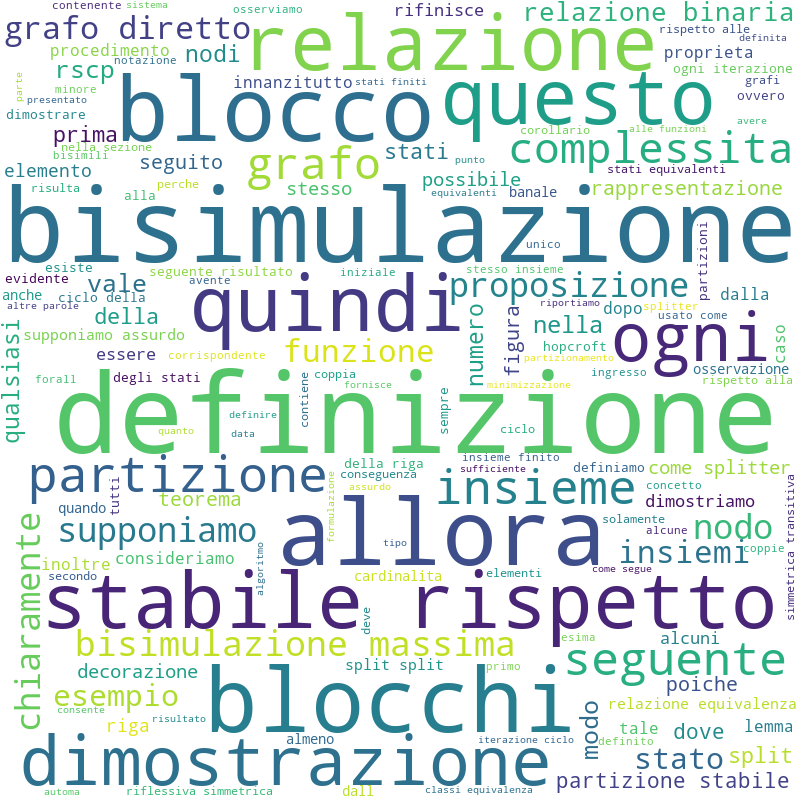
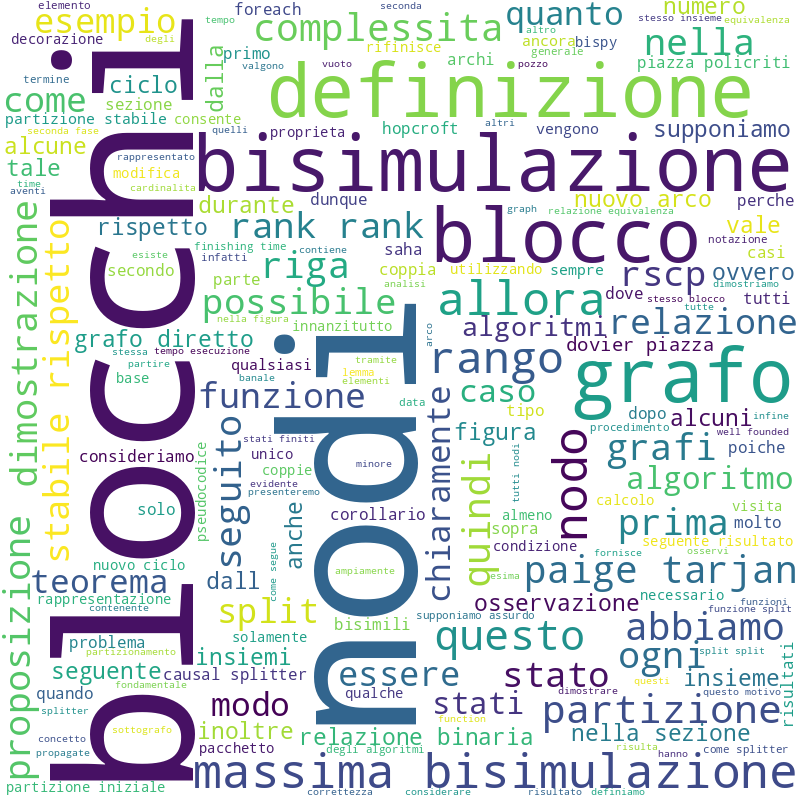
improve README

diff --git a/slides/slides.tex b/slides/slides.tex
@@ -118,22 +118,14 @@
                     \node (a) at (0,6) {a};
                     \node[fill=green] (c) at (2,3) {c};
                     \node[fill=green] (b) at (-2,3) {b};
-                    \node[fill=yellow] (d) at (-4,0) {d};
-                    \node[fill=orange] (e) at (-2,0) {e};
-                    \node[fill=yellow] (f) at (2,0) {f};
-                    \node[fill=orange] (g) at (4,0) {g};
                 \end{scope}
 
                 \begin{scope}[>={Stealth[black]},
                     every edge/.style={draw=black,very thick}]
                     \path [->] (a) edge node {} (b);
-                    \path [->] (a) edge node {} (c);
 
-                    \path [->] (b) edge node {} (d);
-                    \path [->] (b) edge node {} (e);
-
-                    \path [->] (c) edge node {} (f);
-                    \path [->] (c) edge node {} (g);
+                    \path [->] (b) edge [bend left] node {} (c);
+                    \path [->] (c) edge [bend left] node {} (b);
                 \end{scope}
             \end{tikzpicture}
         \end{subfigure}
@@ -141,7 +133,7 @@
         \begin{subfigure}{0.44\textwidth}
             \Large
             \begin{gather*}
-                \mathcal{B} = \{(b,c), (e,g), (d,f)\}
+                \mathcal{B} = \{(b,c)\}
             \end{gather*}
         \end{subfigure}
     \end{figure}

diff --git a/document.tex b/document.tex
@@ -30,7 +30,7 @@
       \textbf{\texttt{BisPy}}
 
       \large
-      \textsc{un package Python per il calcolo della massima bisimulazione di grafi diretti}
+      \textsc{un pacchetto Python per il calcolo della massima bisimulazione di grafi diretti}
       \makebox[\textwidth][c]{\rule{\textwidth}{.4pt}}
       \vspace{1.5cm}
 

diff --git a/readme.md b/readme.md
@@ -1,23 +1,51 @@
-# Readme
+# My BSc thesis
 
-## Algoritmi
-+ Paige-Tarjan
-+ Dovier-FBA
-+ Saha-incremental
+### Title
 
-## Note
-L'ultima versione del PDF è reperibile nelle release nella parte destra della pagina.
+`BisPy`: a Python package for the computation of the maximum bisimulation of
+directed graphs.
 
-## Codice sorgente degli algoritmi presentati
-https://github.com/fAndreuzzi/Bisimulation-Algorithms
+### Summary
 
-## Risultati
-### Algoritmo PTA
-Partizione iniziale | RSCP
---- | ---
-![](res/pta-before.png) | ![](res/pta-after.png)
+In this thesis I analyse three algorithms for the computation of maximum
+bisimulation, which I also implemented in the Python package `BisPy` (available
+[here](https://github.com/fAndreuzzi/BisPy)).
 
-## Miscellaneous
-Word count | Word cloud
---- | ---
-![](res/word-count.png) | ![](res/word-cloud.png)
+### PDF and slided
+
+The PDF file is available [here](files/document.pdf) italian only. The slides
+which I used during the discussion of the thesis are [here](files/slides.pdf).
+
+### Word cloud
+![](res/word-cloud.png)
+
+### Bibliography
+
+This is a reduced version of the list of references which I consulted:
+
+- Saha, Diptikalyan. "An incremental bisimulation algorithm." International
+  Conference on Foundations of Software Technology and Theoretical Computer
+  Science. Springer, Berlin, Heidelberg, 2007.
+  [DOI](https://doi.org/10.1007/978-3-540-77050-3_17)
+- Dovier, Agostino, Carla Piazza, and Alberto Policriti. "A fast bisimulation
+  algorithm." International Conference on Computer Aided Verification.
+  Springer, Berlin, Heidelberg, 2001.
+  [DOI](https://doi.org/10.1007/3-540-44585-4_8)
+- Gentilini, Raffaella, Carla Piazza, and Alberto Policriti. "From bisimulation
+  to simulation: Coarsest partition problems." Journal of Automated Reasoning
+  31.1 (2003): 73-103. [DOI](https://doi.org/10.1023/A:1027328830731)
+- Paige, Robert, and Robert E. Tarjan. "Three partition refinement algorithms."
+  SIAM Journal on Computing 16.6 (1987): 973-989.
+  [DOI](https://doi.org/10.1137/0216062)
+- Hopcroft, John. "An n log n algorithm for minimizing states in a finite
+  automaton." Theory of machines and computations. Academic Press, 1971.
+  189-196.
+- Aczel, Peter. "Non-well-founded sets." (1988).
+- Kanellakis, Paris C., and Scott A. Smolka. "CCS expressions, finite state
+  processes, and three problems of equivalence." Information and computation
+  86.1 (1990): 43-68. [DOI](<https://doi.org/10.1016/0890-5401(90)90025-D>)
+- Sharir, Micha. "A strong-connectivity algorithm and its applications in data
+  flow analysis." Computers & Mathematics with Applications 7.1 (1981): 67-72.
+  [DOI](<https://doi.org/10.1016/0898-1221(81)90008-0>)
+- Cormen, Thomas H., et al. Introduction to algorithms. MIT press, 2009.
+  (ISBN: 9780262533058)
